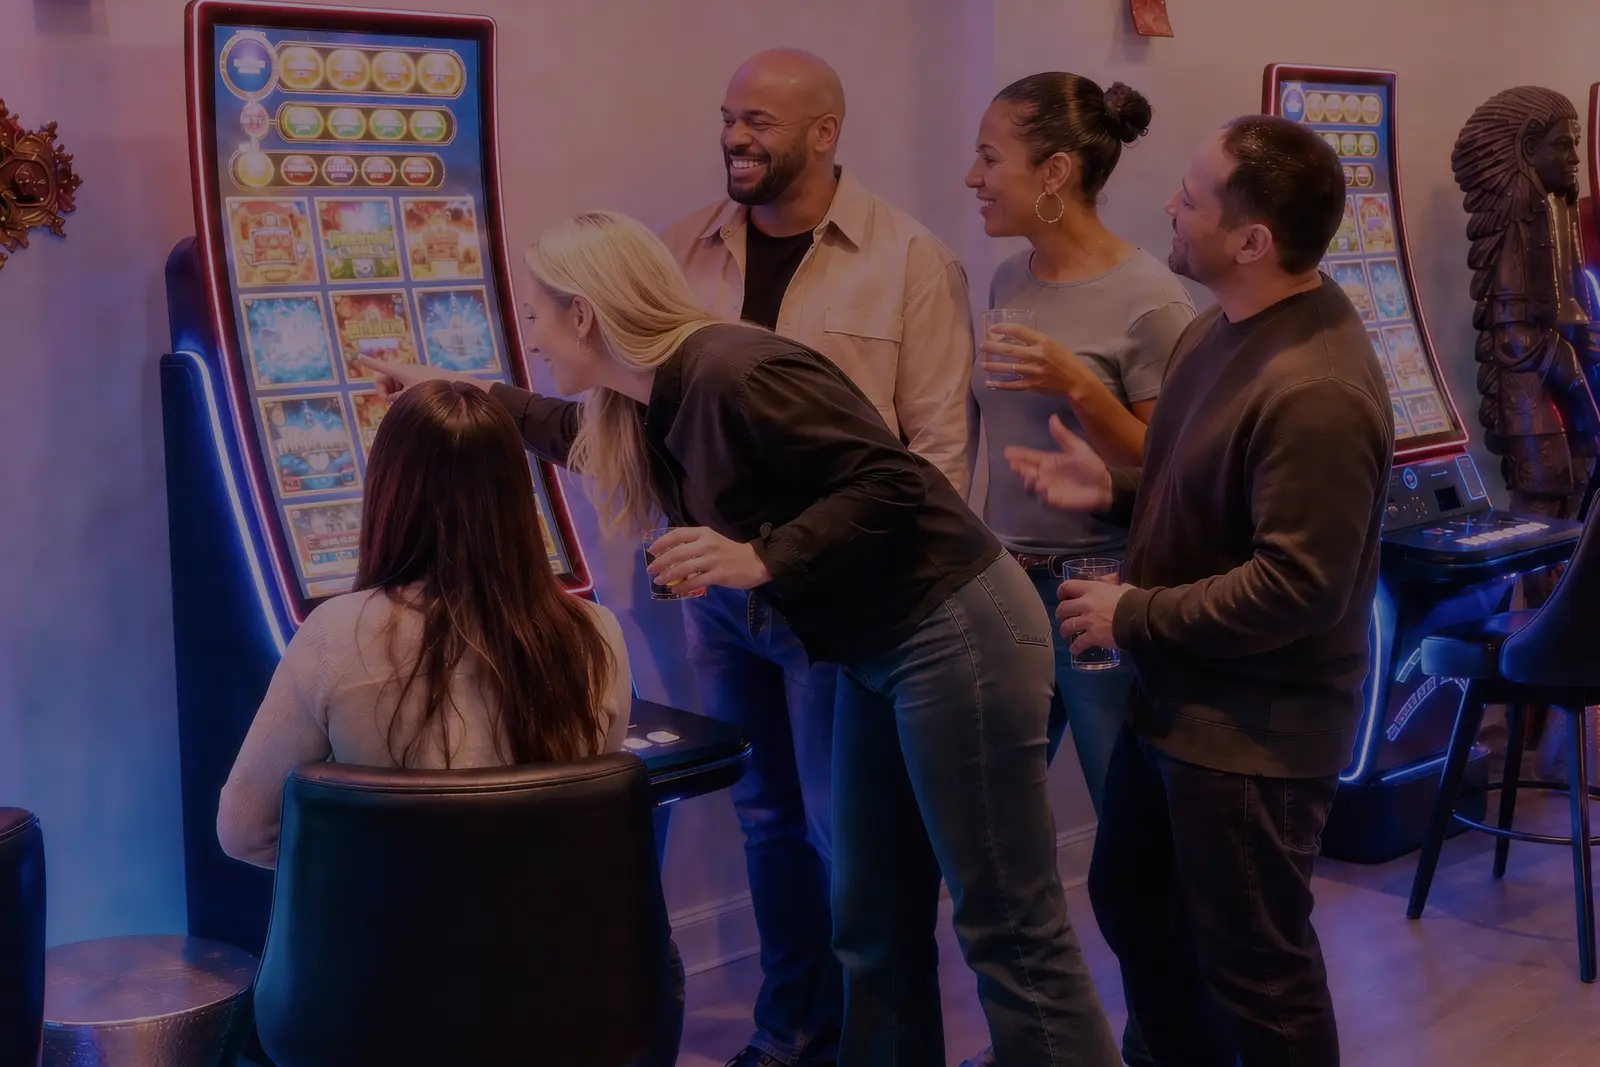
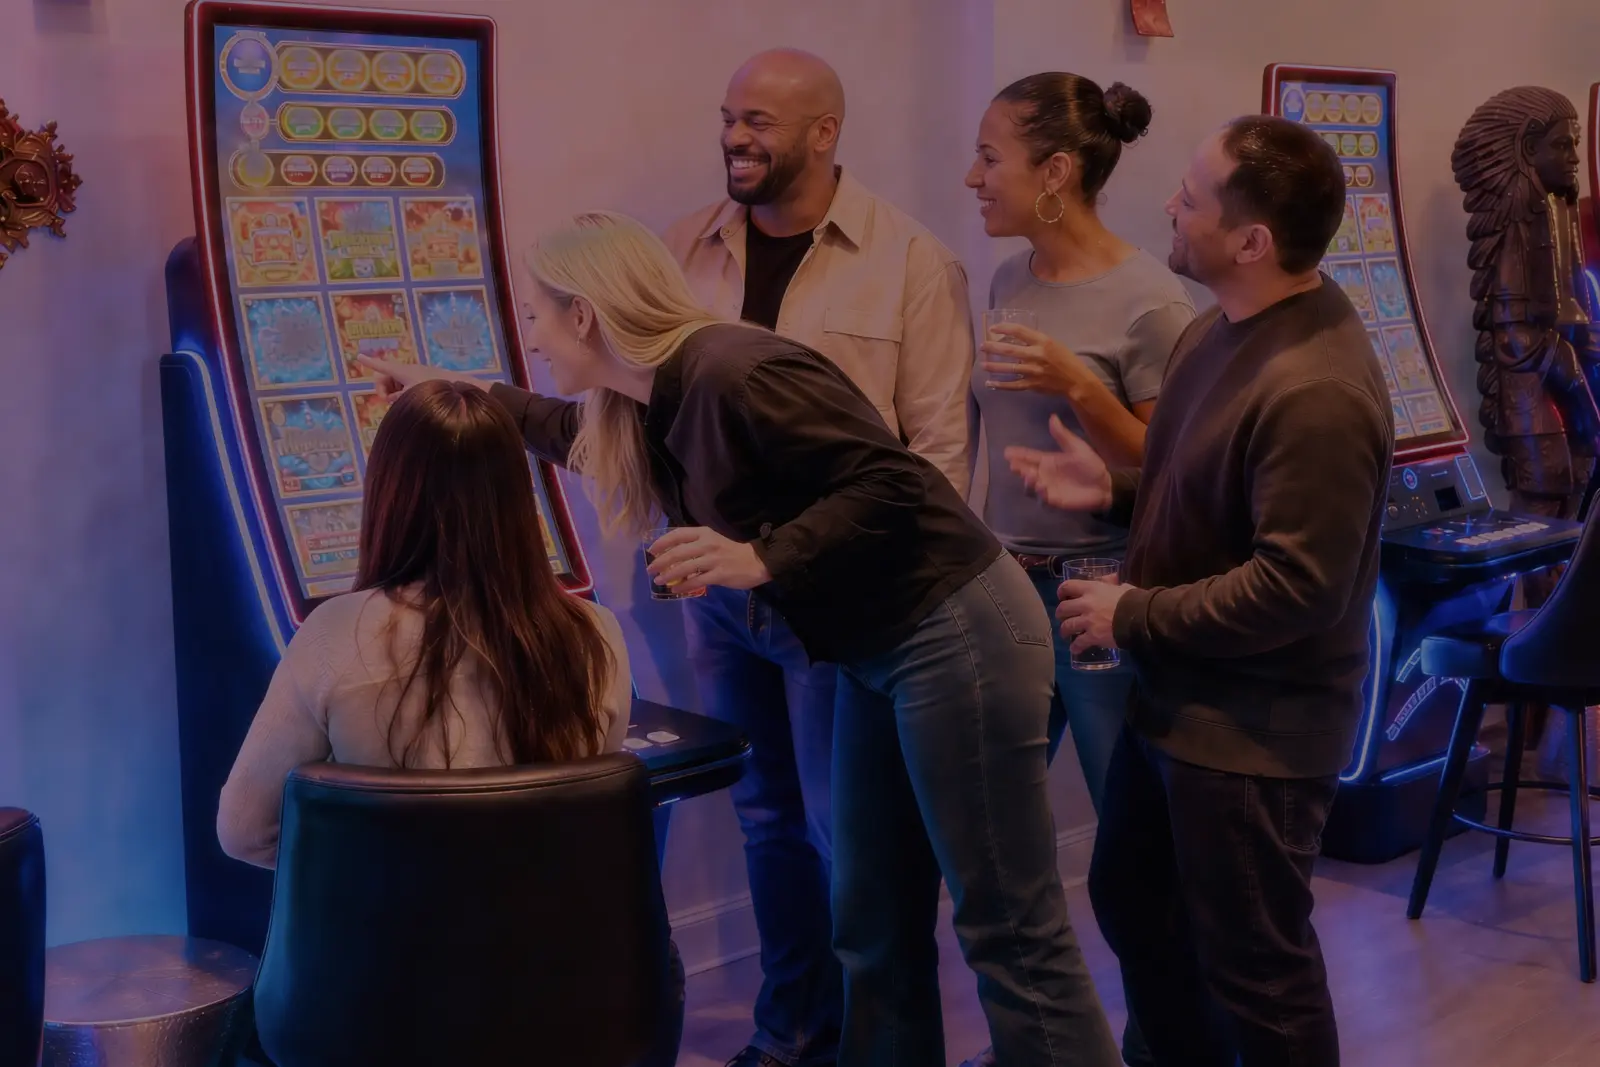
The afterparty: tame highlight blowout on the card (hair + screen)
The last occasion chip draws the heaviest soft-light wash in the set,
which blew the blonde's hair and the lit screen even though the file
never clipped. Fix: darken only those regions through a luminance mask
and export with Triangle (Lanczos was ringing bright edges up). Rest of
the frame, faces and mood unchanged.

diff --git a/index.html b/index.html
@@ -409,7 +409,7 @@
       <input type="text" name="_gotcha" tabindex="-1" autocomplete="off" aria-hidden="true" class="ff-hp">
       <!-- Web3Forms delivery: access_key is bound to [email redacted].
            Paste the key from the Web3Forms setup email into value="" below. -->
-      <input type="hidden" name="access_key" value="">
+      <input type="hidden" name="access_key" value="972a6cb1-dbf0-4bf6-87ce-f6cdca2792ff">
       <input type="hidden" name="subject" value="New contact form message — theflamechicago.com">
       <input type="hidden" name="from_name" value="The Flame Chicago website">
       <div class="ff-foot">

diff --git a/IMAGE-PLAN.md b/IMAGE-PLAN.md
@@ -270,6 +270,14 @@ Then post only: crop `1635x1090+65+30` (centres the group, drops the empty machi
 
 **v4 — skin pass (shipped).** One Seedream 4.5 pass on the ungraded v3 render (`skin.txt`, both mandatory guards: no invented signage, preserve framing) evened out the GPT mottling on every face and hand; framing held, no fabricated wordmarks. **But Seedream also flattened the mood** — it brightened the whole frame (mean 13.7→41) and killed the magenta/violet neon wash, leaving beige walls that wouldn't sit beside the rest of the set. Fix: per-channel mean-match back to the approved v3 grade — measure R/G/B means of both, scale each channel of the Seedream output to hit v3's (`-channel R -evaluate multiply 0.588 -channel G 0.526 -channel B 0.606`). That restores the neon (low green vs. high red/blue = magenta) and lands mean grey at 21.6, and because the skin is now clean even pixels, a uniform tint doesn't reintroduce blotch. **Takeaway: Seedream is a skin fixer, not a colour-safe pass — always grade it back to the frame's original look, don't accept its exposure/colour.** Masters: `occ-afterparty-v4_seedream_*.jpg` (raw 4992×3328) + `occ-afterparty-v4_skin-graded.png` (the shipped 2048 frame).
 
+**v5 — highlight blowout on the card.** After v4 the blonde's hair and the lit screen read blown *on the live card*, not in the file. Two causes, both real: (1) the Lanczos export overshot (ringing pushed a max channel to 197), and (2) **the afterparty is the last chip, so it draws the heaviest wash in the set** — `.oc-wash` is `mix-blend-mode:soft-light` at `rgba(166,132,255,0.42)` (alpha = `0.2 + t*0.22`, and t=1 here), and soft-light lightens exactly the bright smooth hair mass. The file itself was never clipping (source hair maxes ~139/255).
+
+Diagnosis method that worked: **reproduce the exact card blend in headless Chrome** (`img` + a `soft-light` wash div at the real rgba) — ImageMagick's soft-light differs from the browser's W3C one, so simulate in the browser. On-card mean was actually in-band with neighbours (afterparty 31.8 vs friends 36, celebrate 30), which proved it was a *local* hot-spot, not global brightness — so global darkening was wrong (it just went muddy).
+
+Fix: a luminance mask isolating only the 44–60% band (the hair rim + screen tiles, ~2.6% of frame, verified by red-overlay before applying), darken through it `-brightness-contrast -22x6`, everything else untouched. Export with `-filter Triangle` (no negative lobes → no ringing overshoot). Mean holds 21.0. Masters: `occ-afterparty-v5_hifix.png` + `occ-afterparty-v5_highlight-mask.png`.
+
+**Two lasting rules from this:** the last occasion chip gets the strongest soft-light wash, so its frame must not carry a big smooth near-white region; and resize the rail webp with **Triangle, not Lanczos** — Lanczos rings bright edges up.
+
 **Calibrate brightness against the set, don't eyeball it.** Mean grey (`magick f -colorspace Gray -format '%[fx:mean*100]' info:`) across the occasion rail runs 17–29. v1 sat at 14 — genuinely too dark, which is what Tyler flagged. v2 lands at 21.5: mid-pack, still the latest-feeling frame in the chooser, blacks uncrushed.
 
 ## Notes / open